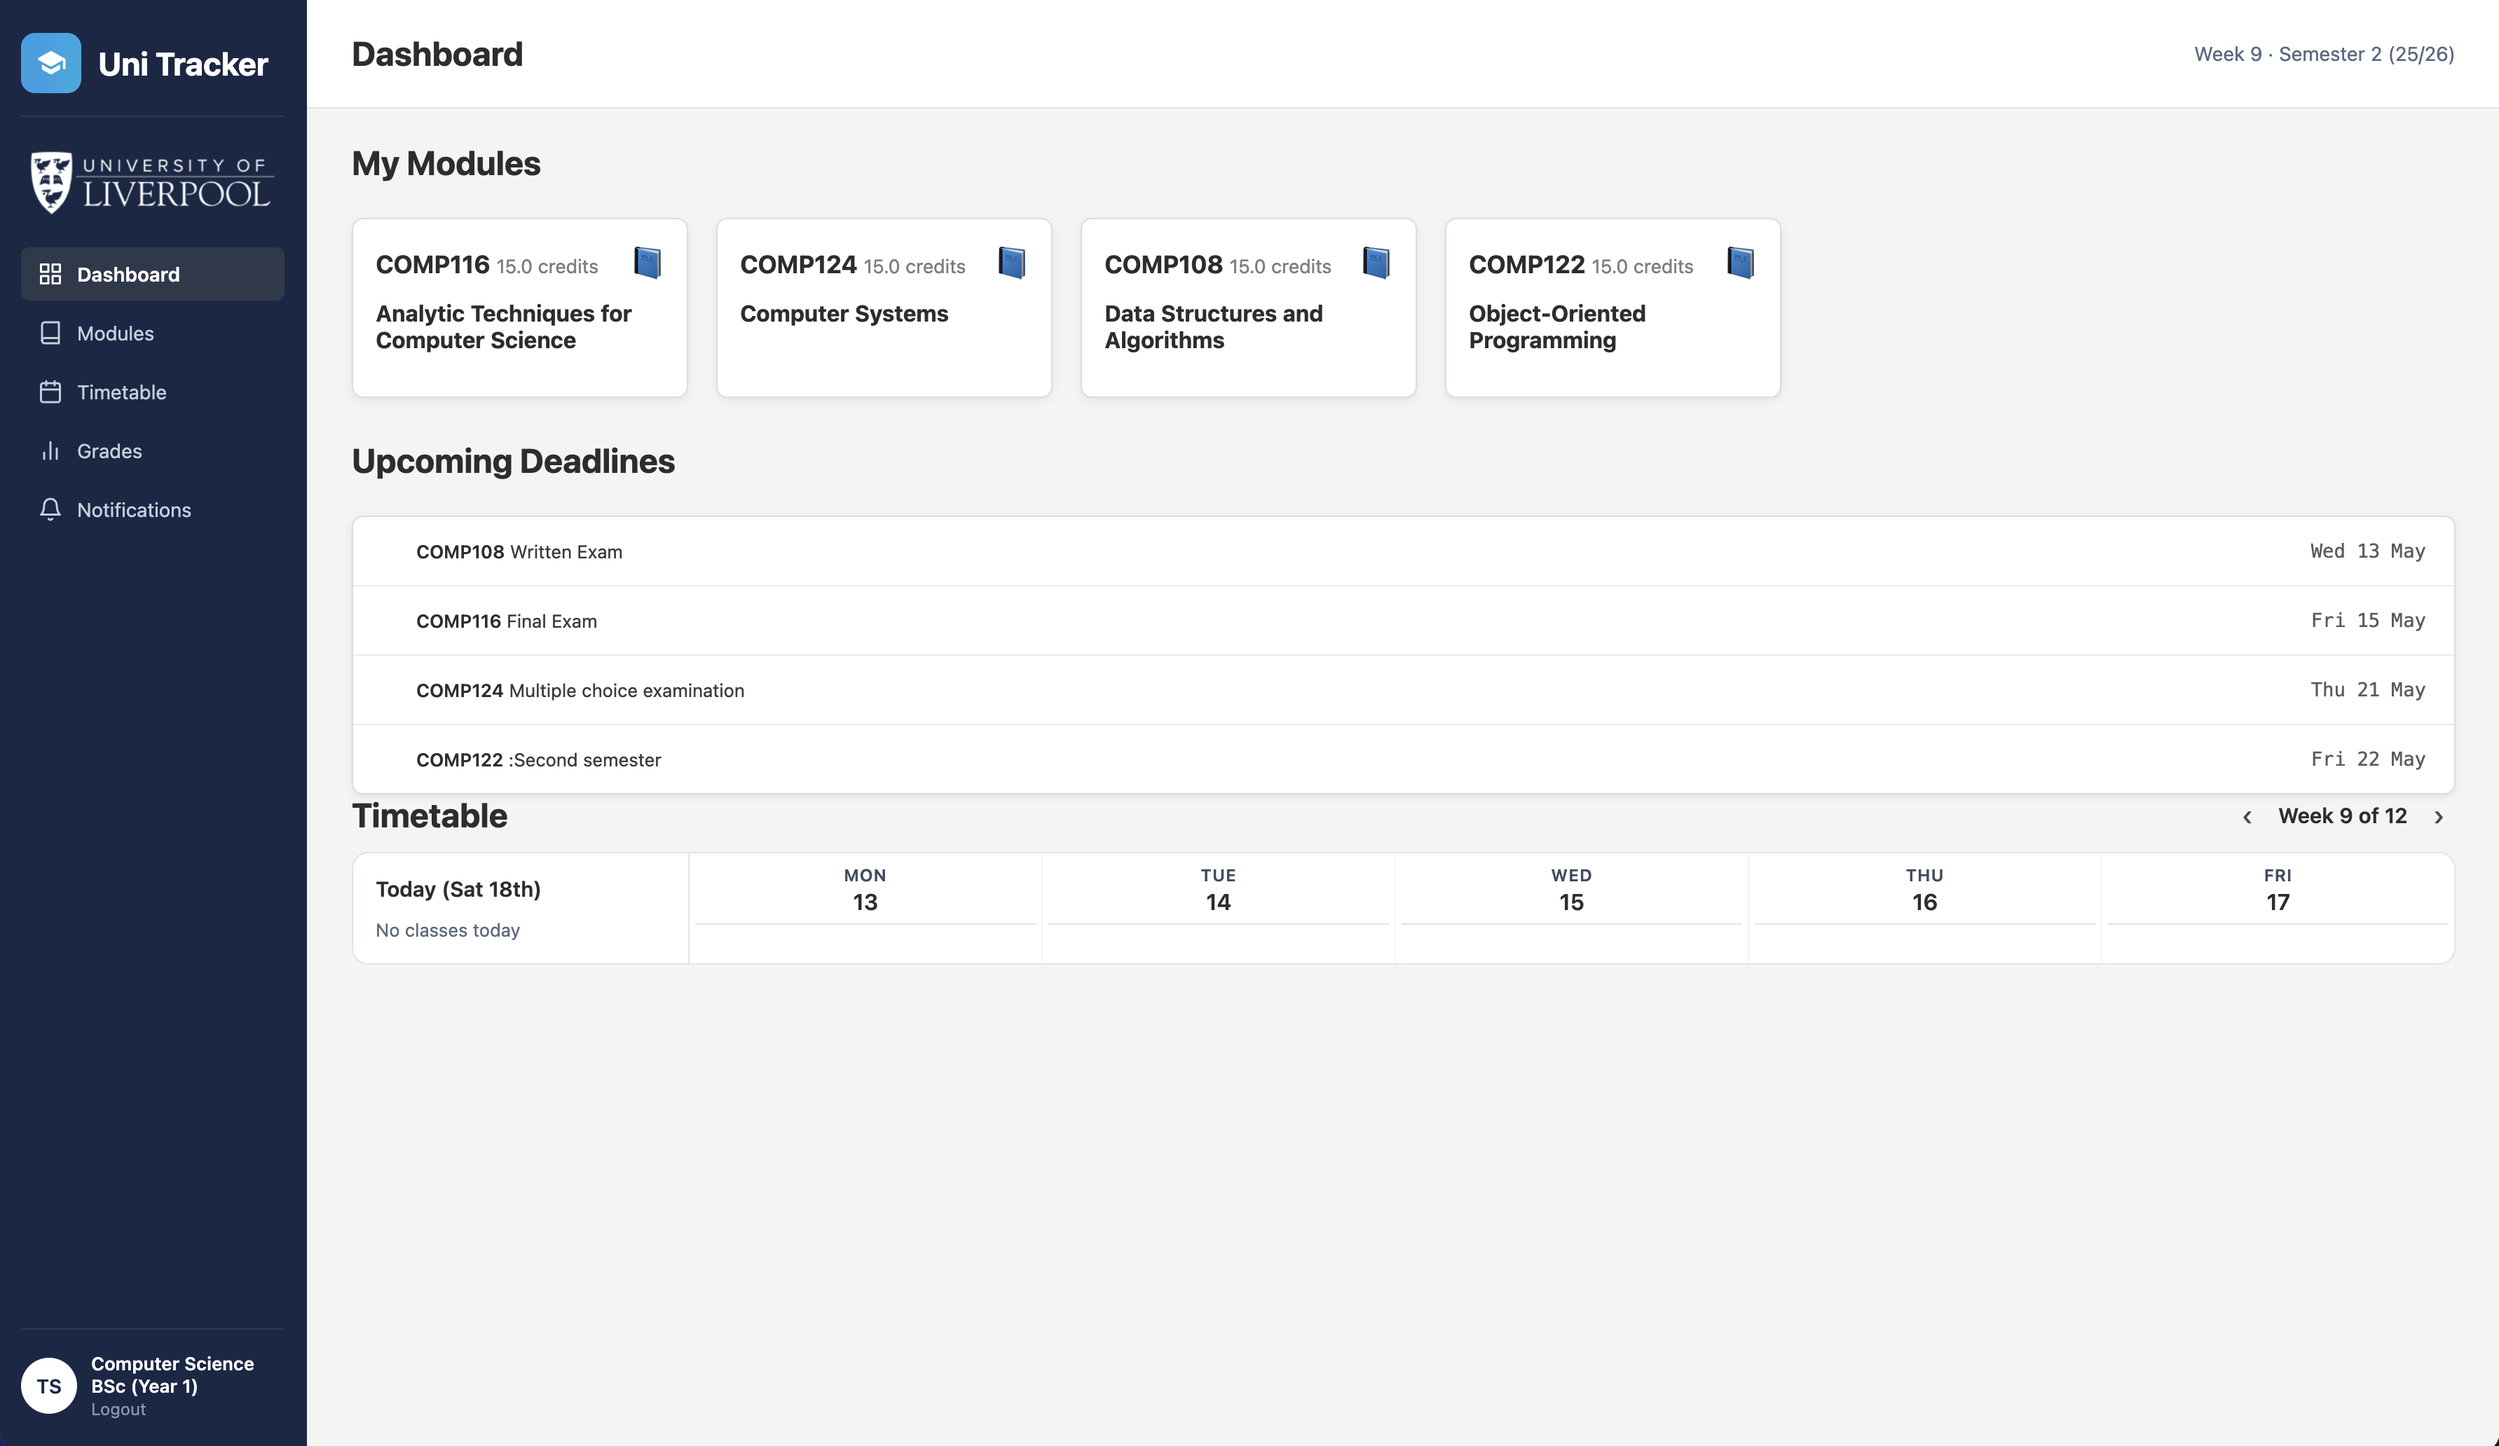
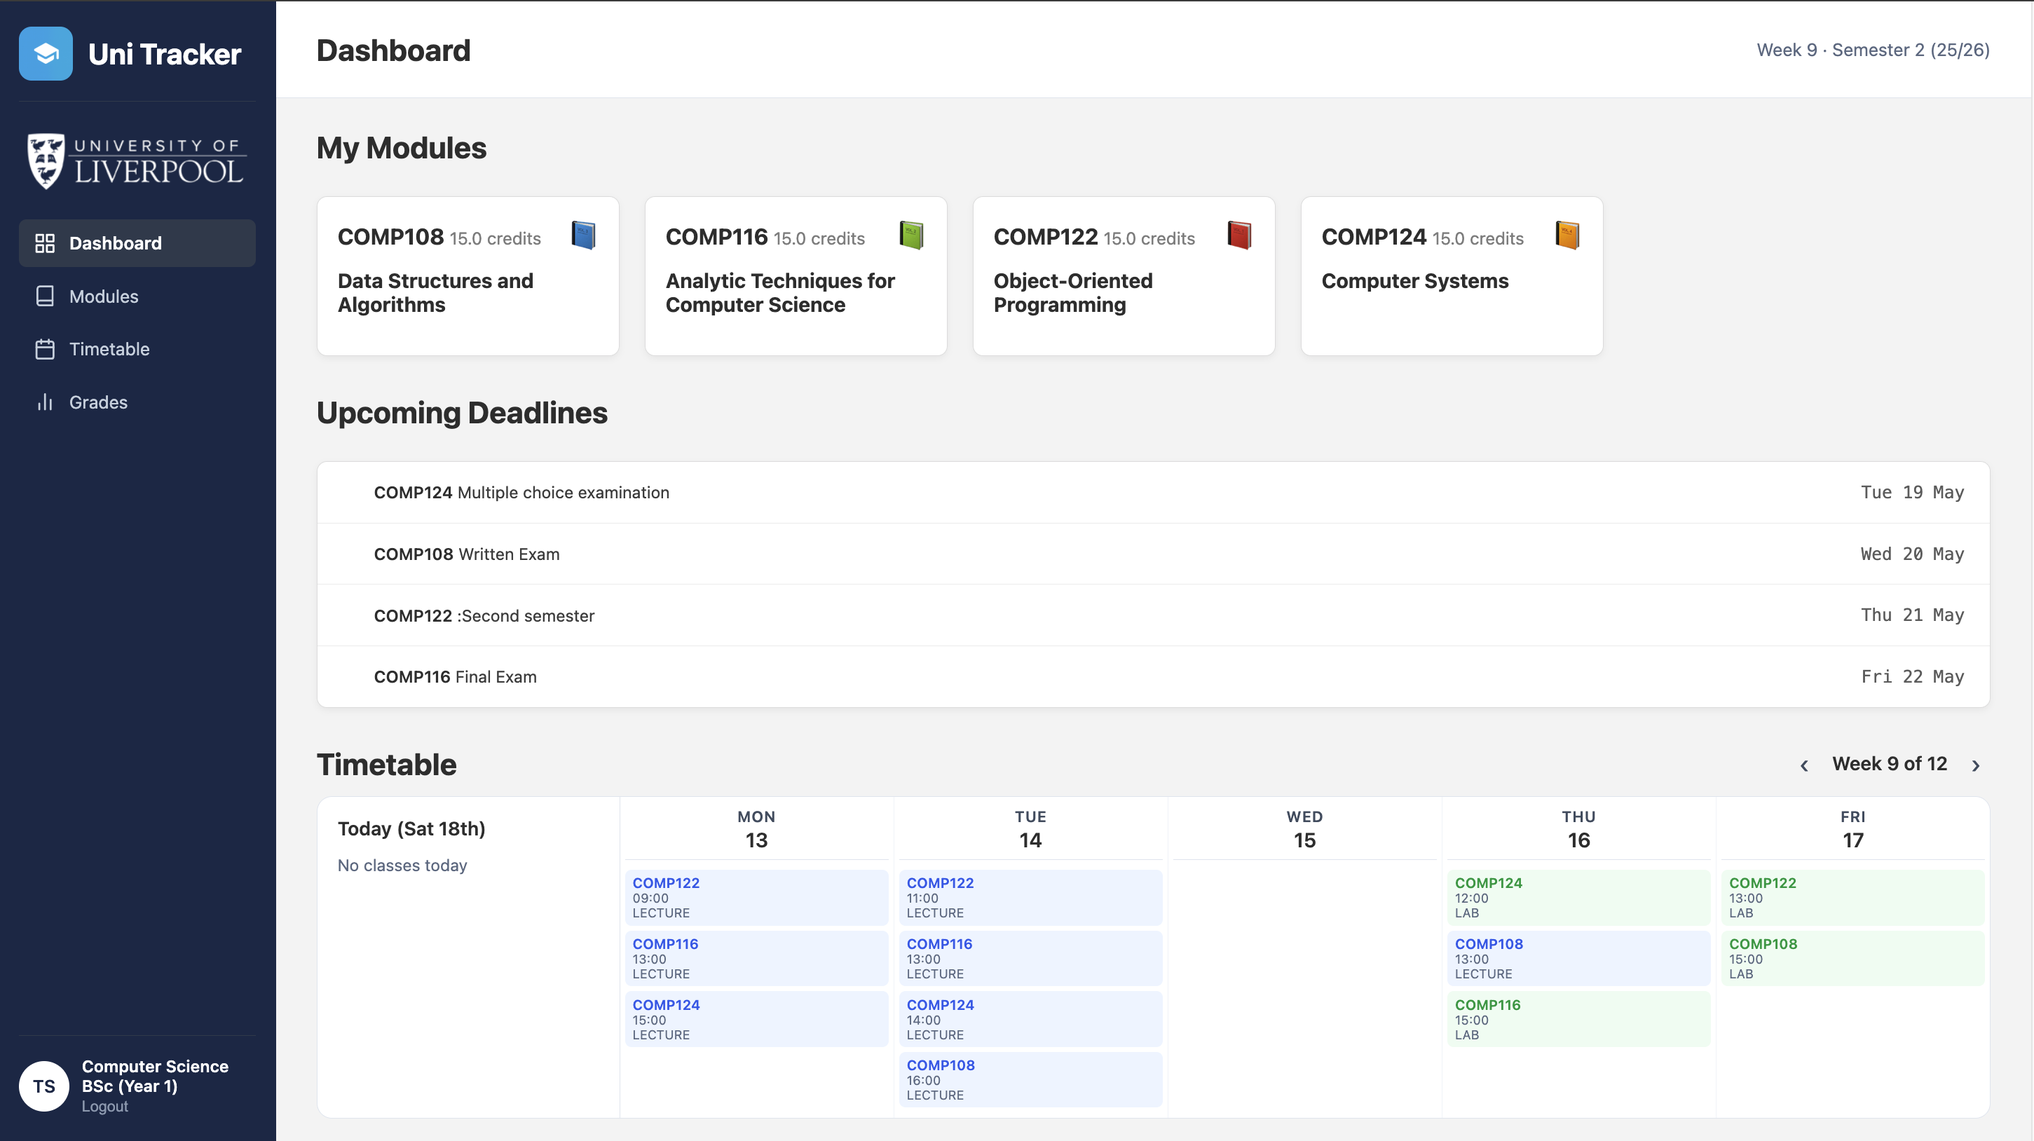
Update Screenshots With New Polished UI

diff --git a/README.md b/README.md
@@ -20,6 +20,8 @@ For a local run, follow Quick Setup below.
 ## Screenshots
 
 ![Dashboard](docs/screenshots/dashboard.png)
+![Modules](docs/screenshots/modules.png)
+![Module Detail](docs/screenshots/modules_101.png)
 ![Timetable](docs/screenshots/timetable.png)
 ![Grades](docs/screenshots/grades.png)
 ![Admin](docs/screenshots/admin.png)
